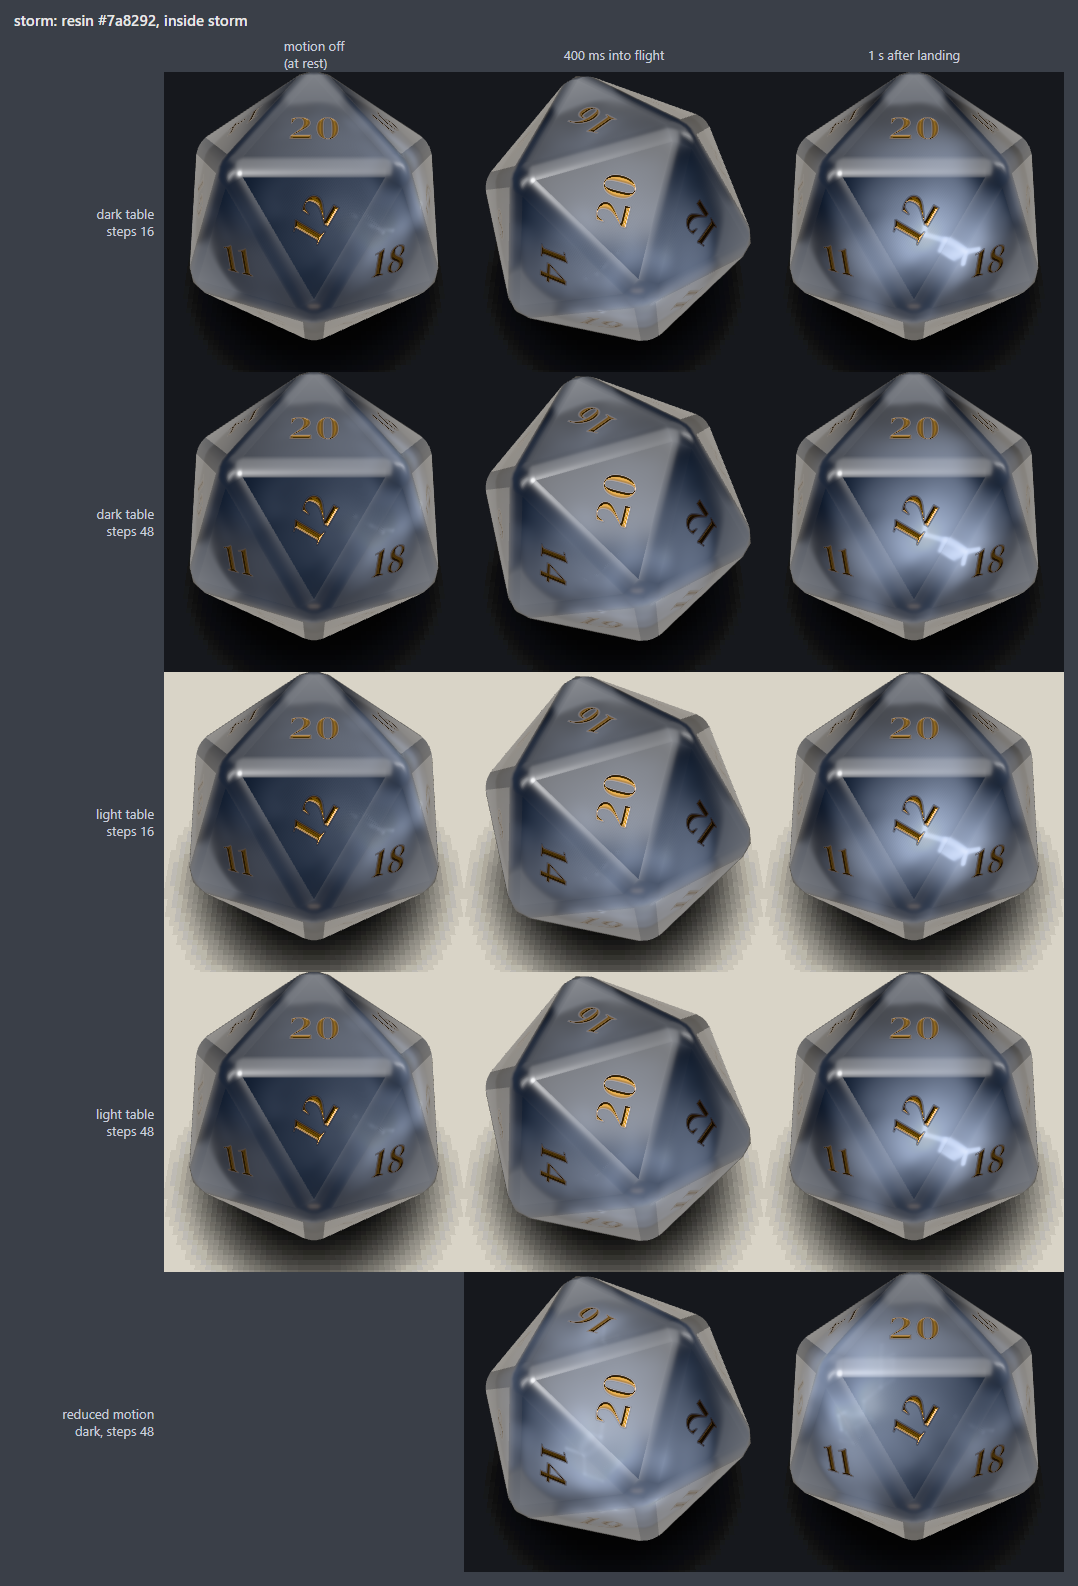
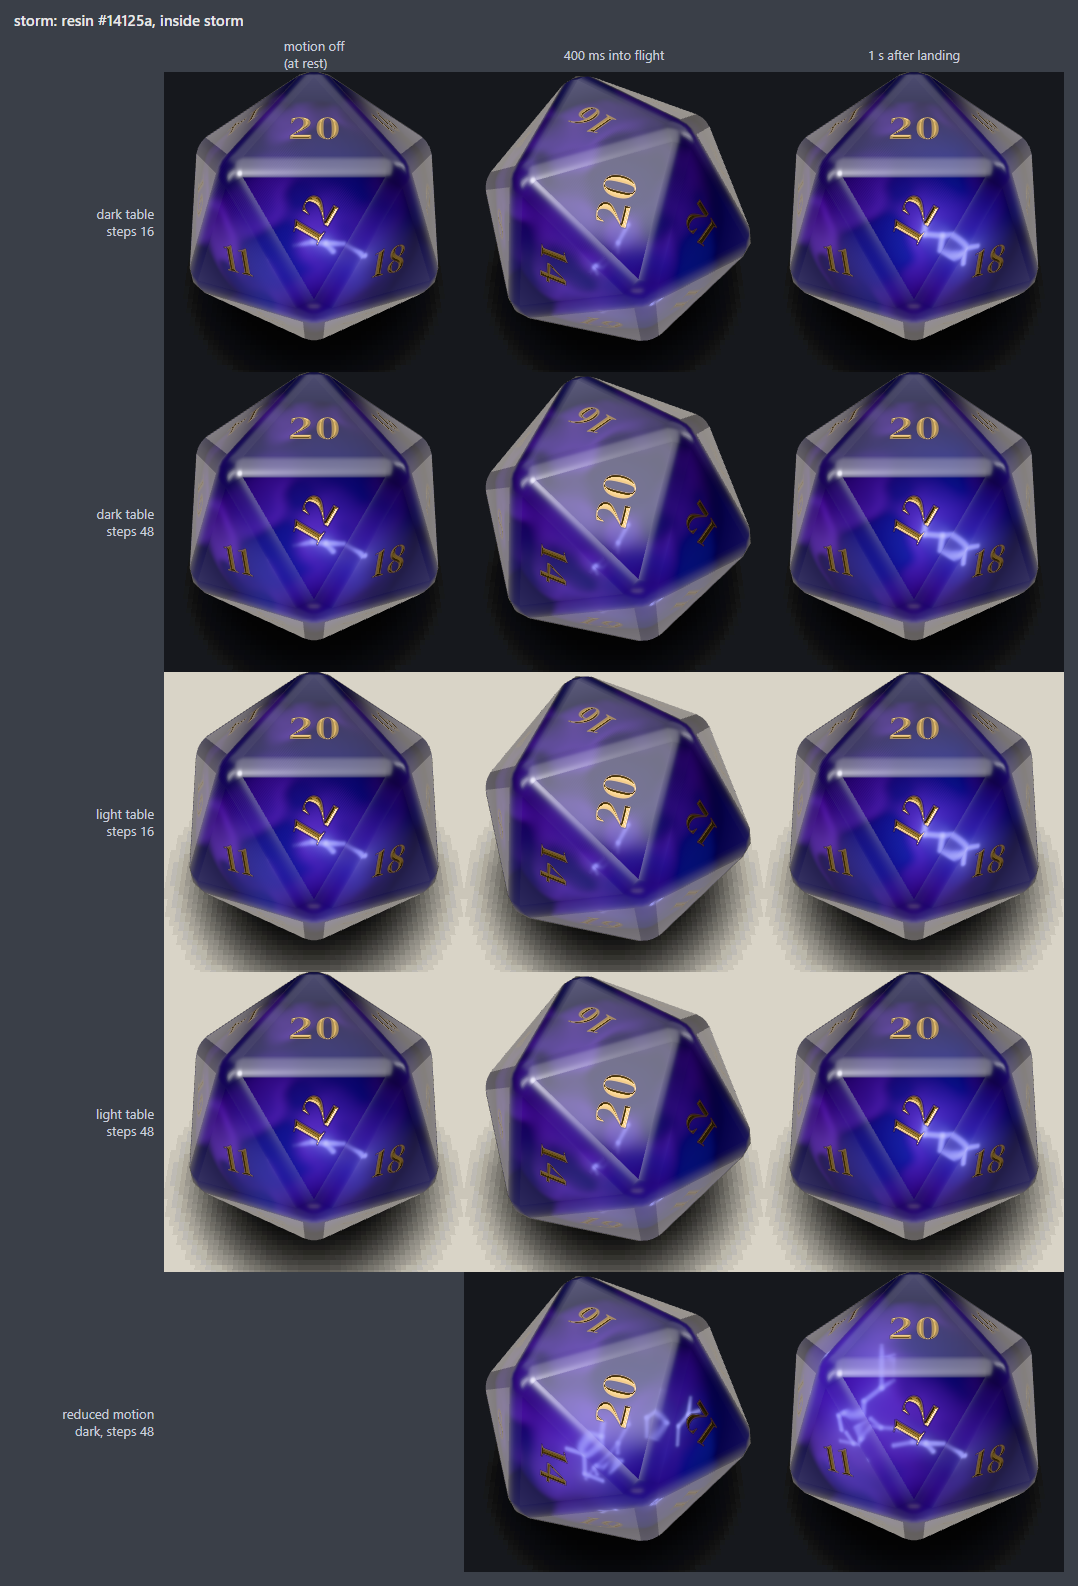
fix(insides): storm sparks legible held and still, frost early out
Storm: the calm bolts keep three-quarter brightness (only their light on
the cloud is halved); a strike clears the cloud round its spot and along
the ray in front of it, so bolts show through from any side; slot 0 has
a fixed spot and heading; white-hot cores tinted colors[0]; the cloud is
darker with lit rims and shadowed cores. The sheet uses the electricity
damage theme's resin and colours. Frost returns only the claimed spike
hits past the haze's edge, before any noise.

diff --git a/src/render/extras/insides/storm.js b/src/render/extras/insides/storm.js
@@ -2,12 +2,17 @@
  * Storm inside: a dark thundercloud with short forked sparks flashing at random spots.
  *
  * Shape (canonical interior frame; the cloud turns with the die like nebula):
- * - the cloud: billows from two noise lookups, denser towards the middle, lit a little from the
- *   key light's side, in colors[1] (keep it dark);
+ * - the cloud: billows from two noise lookups with gaps between them, denser towards the middle;
+ *   their thin rims catch the key light, their dense cores sit in shadow; colors[1] is only tinted
+ *   in, so the cloud stays dark whatever its colour;
  * - the sparks: time is cut into slots of STORM.period seconds, one spark per slot at a spot and
  *   heading hashed from the slot index: a short jagged bolt (three segments) with a fork. Each
  *   flashes for STORM.flash seconds (with a flicker, a second stroke) and then fades fast, so one
- *   strikes about every 0.4 s. The flash also lights the cloud round the spot, in colors[0].
+ *   strikes about every 0.4 s. The flash also lights the cloud round the spot, in colors[0], and
+ *   clears it round the spot and along the ray in front of it (a window from the eye to the spark,
+ *   the same for every sample of a ray), so a bolt shows through the cloud from any side. Slot 0
+ *   (the still frame) has a fixed spot and heading part way out. The bolt's core is white-hot,
+ *   tinted colors[0], so it reads on a body of its own colour.
  *
  * Sparks are thin lines: a march sample cannot hit them (they would stipple). Each segment of a
  * bolt is tested against the whole ray instead: the closest approach of the ray to the segment
@@ -18,8 +23,9 @@
  *
  * Motion: DC_ST_T is uInteriorTime with insideMotion, the constant 0 without (a still frame: the
  * first slot's spark at full flash, no uniform read). Under prefers-reduced-motion the patch
- * carries DICER_CALM (index.js): the first three slots' sparks held at half brightness, nothing
- * strobes (the cloud still drifts at the reduced time). Storm does not read uInteriorFlare (Task 9's agitation).
+ * carries DICER_CALM (index.js): the first three slots' sparks held steady, nothing strobes: their
+ * light on the cloud at half a flash, the bolts at three quarters so they still read as sparks (the
+ * cloud still drifts at the reduced time). Storm does not read uInteriorFlare (Task 9's agitation).
  *
  * Cost: an early out outside the volume, two noise lookups per sample; the bolt (four
  * ray / segment tests) only while a spark is lit (three bolts under DICER_CALM).
@@ -60,67 +66,90 @@ float dcStGlow( vec2 ds, float lim, float sig ) {
 	if ( ds.y < 0.0 || ds.y >= lim ) return 0.0;
 	return ( exp( - ds.x * ds.x * 4000.0 ) + 0.16 * exp( - ds.x * 26.0 ) ) * exp( - sig * ds.y );
 }
-// the bolt of slot k: ( its glow on this march segment, the distance from p to its spot )
-vec2 dcStBolt( vec3 p, vec3 rd, float k, float lim, float sig ) {
+// the spot slot k strikes at; slot 0 (the still frame, a calm spark) at a fixed spot part way out,
+// never deep in the cloud
+vec3 dcStSpot( float k ) {
 	vec3 h = vec3( dcHash13( vec3( k, 1.3, 7.1 ) ), dcHash13( vec3( k, 5.9, 2.4 ) ), dcHash13( vec3( k, 8.2, 3.7 ) ) );
+	return k == 0.0 ? vec3( - 0.2, 0.18, 0.0 ) : ( h - 0.5 ) * 0.5;
+}
+// how much of the cloud a strike at c clears along this ray: a window from the eye to the spark
+// (the ray passes close to c, in front of it), so a spark shows through the cloud from any side.
+// It depends only on the ray and c, the same at every sample (no stipple at its edge)
+float dcStWin( vec3 p, vec3 rd, vec3 c ) {
+	vec3 w = c - p;
+	float along = dot( w, rd );
+	vec3 off = w - rd * along;
+	return exp( - dot( off, off ) * 60.0 ) * smoothstep( - 0.08, 0.06, along );
+}
+// the glow on this march segment of slot k's bolt, struck at c
+float dcStBolt( vec3 p, vec3 rd, float k, vec3 c, float lim, float sig ) {
 	vec3 g = vec3( dcHash13( vec3( k, 4.4, 9.6 ) ), dcHash13( vec3( k, 2.2, 6.8 ) ), dcHash13( vec3( k, 7.7, 0.9 ) ) );
-	// slot 0 (the still frame) strikes part way out, never deep in the middle
-	vec3 c = k == 0.0 ? normalize( h - 0.5 ) * 0.2 : ( h - 0.5 ) * 0.5;
-	vec3 dir = normalize( g - 0.5 + vec3( 0.0, 0.002, 0.0 ) );
+	// slot 0's bolt: a fixed heading across the yz plane
+	vec3 dir = k == 0.0 ? vec3( 0.11, 0.45, - 0.886 ) : normalize( g - 0.5 + vec3( 0.0, 0.002, 0.0 ) );
 	vec3 sd = normalize( cross( dir, abs( dir.y ) < 0.9 ? vec3( 0.0, 1.0, 0.0 ) : vec3( 1.0, 0.0, 0.0 ) ) );
 	vec3 sd2 = cross( dir, sd );
 	// the jagged bolt: two kinks off the line, and a fork from the second
 	vec3 b0 = c - dir * ( DC_ST_LEN * 0.5 );
 	vec3 b1 = c - dir * ( DC_ST_LEN * 0.15 ) + sd * 0.05 + sd2 * ( 0.06 * ( g.x - 0.5 ) );
-	vec3 b2 = c + dir * ( DC_ST_LEN * 0.18 ) - sd * 0.045 + sd2 * ( 0.06 * ( h.x - 0.5 ) );
+	vec3 b2 = c + dir * ( DC_ST_LEN * 0.18 ) - sd * 0.045 + sd2 * ( 0.06 * ( g.y - 0.5 ) );
 	vec3 b3 = c + dir * ( DC_ST_LEN * 0.5 ) + sd * 0.015;
 	vec3 fk = b2 + normalize( dir * 0.7 - sd * 0.9 + sd2 * ( g.z - 0.5 ) ) * ( DC_ST_LEN * 0.32 );
-	float gl = dcStGlow( dcStSeg( p, rd, b0, b1 ), lim, sig ) + dcStGlow( dcStSeg( p, rd, b1, b2 ), lim, sig )
+	return dcStGlow( dcStSeg( p, rd, b0, b1 ), lim, sig ) + dcStGlow( dcStSeg( p, rd, b1, b2 ), lim, sig )
 		+ dcStGlow( dcStSeg( p, rd, b2, b3 ), lim, sig ) + 0.75 * dcStGlow( dcStSeg( p, rd, b2, fk ), lim, sig );
-	return vec2( gl, length( p - c ) );
 }
 vec4 dcInterior( vec3 p, vec3 rd, float dt ) {
 	float env = dcIEdge( p );
 	if ( env <= 0.0 ) return vec4( 0.0 );
 	float r = length( p );
-	// the cloud: slow billows, denser towards the middle
-	vec3 q = p * 3.0 + vec3( 0.0, DC_ST_T * 0.06, DC_ST_T * 0.04 );
-	float n1 = dcNoise3( q + 2.7 );
-	float n2 = dcNoise3( q * 1.9 - 6.1 );
-	// soft billows: a smooth extinction keeps a spark's dimming the same whatever the jitter
-	float dens = smoothstep( 0.2, 0.85, n1 * 0.7 + n2 * 0.3 + 0.3 * ( 0.3 - r ) );
-	float sig = ( dens * mix( 5.0, 16.0, uInteriorDensity ) + 0.8 ) * env;
-	float a = dcIAlpha( sig, dt );
-	float lit = 0.25 + 0.55 * smoothstep( - 0.35, 0.6, dot( p, dcIKey ) ) * ( 1.0 - 0.5 * dens );
-	vec3 cloud = uInteriorColors[ 1 ] * ( dcILight * lit * 0.4 + 0.04 );
-	// the march's last segment also takes its tail up to the volume exit
-	float ex = dcIVolume( p, rd ).y;
-	float lim = ex - dt < dt ? ex : dt;
-	float gl = 0.0;
-	float near = 0.0;
+	// the lit sparks: e lights the cloud round their spots, eb is the bolts' own brightness
 #ifdef DICER_CALM
-	// reduced motion: the first three sparks held at half brightness, nothing flashes
+	// reduced motion: the first three sparks held steady, nothing flashes: their light on the cloud
+	// at half a flash, the bolts themselves at three quarters so they still read as sparks
 	float e = 0.5;
-	for ( int i = 0; i < 3; i ++ ) {
-		vec2 b = dcStBolt( p, rd, float( i ), lim, sig );
-		gl += b.x;
-		near += exp( - b.y * 5.0 );
-	}
+	float eb = 0.75;
+	vec3 c0 = dcStSpot( 0.0 );
+	vec3 c1 = dcStSpot( 1.0 );
+	vec3 c2 = dcStSpot( 2.0 );
+	vec3 dd = vec3( length( p - c0 ), length( p - c1 ), length( p - c2 ) );
+	float near = dot( exp( - dd * 5.0 ), vec3( 1.0 ) );
+	float hole = dot( exp( - dd * 4.0 ), vec3( 1.0 ) ) + dcStWin( p, rd, c0 ) + dcStWin( p, rd, c1 ) + dcStWin( p, rd, c2 );
 #else
 	// this slot's spark: a flash of DC_ST_FLASH with a flicker (the second stroke), then a fast fade
 	float tt = DC_ST_T / DC_ST_PERIOD;
 	float k = floor( tt );
 	float u = ( tt - k ) * DC_ST_PERIOD;
 	float e = u < DC_ST_FLASH ? 1.0 - 0.55 * step( 0.04, u ) * step( u, 0.07 ) : exp( - ( u - DC_ST_FLASH ) * 22.0 );
-	if ( e > 0.003 ) {
-		vec2 b = dcStBolt( p, rd, k, lim, sig );
-		gl = b.x;
-		near = exp( - b.y * 5.0 );
-	}
+	float eb = e;
+	vec3 c0 = dcStSpot( k );
+	float d0 = length( p - c0 );
+	float near = exp( - d0 * 5.0 );
+	float hole = e > 0.003 ? ( exp( - d0 * 4.0 ) + dcStWin( p, rd, c0 ) ) * min( e * 1.5, 1.0 ) : 0.0;
 #endif
-	vec3 spark = ( uInteriorColors[ 0 ] * 1.3 + 0.3 ) * ( gl * e );
+	// the cloud: slow billows with gaps between them, denser towards the middle; a strike clears
+	// the cloud round it and in front of it, so its bolt shows from every side
+	vec3 q = p * 3.0 + vec3( 0.0, DC_ST_T * 0.06, DC_ST_T * 0.04 );
+	float n1 = dcNoise3( q + 2.7 );
+	float n2 = dcNoise3( q * 1.9 - 6.1 );
+	float dens = smoothstep( 0.25, 0.72, n1 * 0.7 + n2 * 0.3 + 0.25 * ( 0.3 - r ) ) * ( 1.0 - 0.85 * min( hole, 1.0 ) );
+	float sig = ( dens * mix( 8.0, 24.0, uInteriorDensity ) + 1.2 * ( 1.0 - 0.7 * min( hole, 1.0 ) ) ) * env;
+	float a = dcIAlpha( sig, dt );
+	// billow contrast: the thin rims catch the light on the key's side, the dense cores sit in
+	// their own shadow; colors[1] is only tinted in, so the cloud stays dark whatever its colour
+	float rim = 1.0 - smoothstep( 0.1, 0.75, dens );
+	float side = smoothstep( - 0.45, 0.5, dot( p, dcIKey ) );
+	vec3 cloud = uInteriorColors[ 1 ] * ( dcILight * ( 0.015 + 0.45 * rim * side + 0.04 * side ) + 0.008 );
+	// the march's last segment also takes its tail up to the volume exit
+	float ex = dcIVolume( p, rd ).y;
+	float lim = ex - dt < dt ? ex : dt;
+#ifdef DICER_CALM
+	float gl = dcStBolt( p, rd, 0.0, c0, lim, sig ) + dcStBolt( p, rd, 1.0, c1, lim, sig ) + dcStBolt( p, rd, 2.0, c2, lim, sig );
+#else
+	float gl = e > 0.003 ? dcStBolt( p, rd, k, c0, lim, sig ) : 0.0;
+#endif
+	// a white-hot core tinted colors[0], so it reads on a body of its own colour
+	vec3 spark = ( mix( uInteriorColors[ 0 ], vec3( 1.0 ), 0.55 ) * 2.0 ) * ( gl * eb );
 	// the flash lights the cloud round the spot
-	cloud += uInteriorColors[ 0 ] * ( e * 2.6 * near * ( 0.3 + dens ) );
+	cloud += uInteriorColors[ 0 ] * ( e * 2.2 * near * ( 0.3 + dens ) );
 	// the spark is not clamped: which march segment claims each bolt segment depends on the jitter,
 	// so a clamp of their sum (or with the cloud) would dither the bolt
 	return vec4( min( cloud, vec3( 1.0 ) ) * a + spark, a );

diff --git a/src/render/extras/insides/frost.js b/src/render/extras/insides/frost.js
@@ -24,8 +24,8 @@
  * Motion: DC_FR_T is uInteriorTime with insideMotion, the constant 0 without (a still frame, no
  * uniform read): the glint crawls and the haze drifts with time; the spikes hold still.
  *
- * Cost: once per pixel, FROST.spikes ray / segment tests (three hashes each); per sample one
- * noise lookup and an exit test.
+ * Cost: once per pixel, FROST.spikes ray / segment tests (three hashes each); per sample an exit
+ * test, then an early out past the haze's edge (only the spike hits), else one noise lookup.
  */
 export const USES_NOISE = true; // dcNoise3, dcHash13
 
@@ -113,6 +113,17 @@ void dcFrRay( vec3 o, vec3 rd ) {
 		}
 	}
 }
+// the hits the march segment from p (sp along the ray, lim long) holds, each dimmed by the haze
+// (extinction haze) between the segment's start and the hit, so it does not depend on where the
+// jitter put the segment's start
+vec4 dcFrHits( float sp, float lim, float haze ) {
+	vec4 acc = vec4( 0.0 );
+	float s1 = dcFrS1 - sp;
+	if ( s1 >= 0.0 && s1 < lim ) acc = dcFrC1 * exp( - haze * s1 );
+	float s2 = dcFrS2 - sp;
+	if ( s2 >= 0.0 && s2 < lim ) acc += ( 1.0 - acc.a ) * dcFrC2 * exp( - haze * s2 );
+	return acc;
+}
 vec4 dcInterior( vec3 p, vec3 rd, float dt ) {
 	if ( ! dcFrInit ) {
 		dcFrInit = true;
@@ -123,18 +134,15 @@ vec4 dcInterior( vec3 p, vec3 rd, float dt ) {
 	float sp = dot( p - dcFrO, rd );
 	float ex = dcIVolume( p, rd ).y;
 	float lim = ex - dt < dt ? ex : dt;
+	// the early out: past the haze's edge only the spike hits (roots sit at the wall), no noise
+	float env = dcIEdge( p );
+	if ( env <= 0.0 ) return dcFrHits( sp, lim, 0.0 );
 	// the cold haze: thicker towards the wall where the frost grows, drifting slowly
 	float r = length( p );
 	float n = dcNoise3( p * 3.4 + vec3( DC_FR_T * 0.05, DC_FR_T * 0.02, 0.0 ) + 1.3 );
-	float haze = ( 0.25 + 1.6 * smoothstep( DC_FR_IN - 0.1, DC_FR_WALL, r ) ) * ( 0.4 + n ) * mix( 0.6, 1.4, uInteriorDensity ) * dcIEdge( p );
+	float haze = ( 0.25 + 1.6 * smoothstep( DC_FR_IN - 0.1, DC_FR_WALL, r ) ) * ( 0.4 + n ) * mix( 0.6, 1.4, uInteriorDensity ) * env;
 	float a = dcIAlpha( haze, dt );
-	// a hit is dimmed by the haze between the segment's start and the hit, so it does not depend
-	// on where the jitter put the segment's start
-	vec4 acc = vec4( 0.0 );
-	float s1 = dcFrS1 - sp;
-	if ( s1 >= 0.0 && s1 < lim ) acc = dcFrC1 * exp( - haze * s1 );
-	float s2 = dcFrS2 - sp;
-	if ( s2 >= 0.0 && s2 < lim ) acc += ( 1.0 - acc.a ) * dcFrC2 * exp( - haze * s2 );
+	vec4 acc = dcFrHits( sp, lim, haze );
 	vec3 hc = uInteriorColors[ 1 ] * ( dcILight * 0.55 + 0.2 );
 	return acc + ( 1.0 - acc.a ) * vec4( min( hc, vec3( 1.0 ) ) * a, a );
 }

diff --git a/tests/unit/look-extras.test.js b/tests/unit/look-extras.test.js
@@ -1347,6 +1347,17 @@ describe('insides', () => {
       expect(body).toContain(`#define DC_FR_N ${FROST.spikes}`);
     });
 
+    test('frost has an early out after the spike claims: no haze noise outside the volume', () => {
+      const body = frostInside(resin({ type: 'frost' })).body;
+      const main = body.slice(body.indexOf('vec4 dcInterior( vec3 p, vec3 rd, float dt )'));
+      const init = main.indexOf('dcFrRay( p, rd );');
+      const out = main.indexOf('if ( env <= 0.0 ) return dcFrHits( sp, lim, 0.0 );');
+      expect(init).toBeGreaterThan(0);
+      // after the per-ray spike test (so root hits at the wall still count), before any noise
+      expect(out).toBeGreaterThan(init);
+      expect(main.indexOf('dcNoise3')).toBeGreaterThan(out);
+    });
+
     test('reduced motion define makes storm sparks steady', () => {
       const a = resin({ type: 'storm', density: 0.5 });
       // no reduced motion: no define
@@ -1365,9 +1376,15 @@ describe('insides', () => {
       expect(mat(a, LIVE).defines).not.toHaveProperty('DICER_CALM');
       // under DICER_CALM: fixed sparks (the first slots) held at half brightness, never reading time
       const body = stormInside(a, true).body;
-      const calm = body.split('#ifdef DICER_CALM')[1].split('#else')[0];
+      const calm = body
+        .split('#ifdef DICER_CALM')
+        .slice(1)
+        .map((x) => x.split('#else')[0])
+        .join('\n');
       expect(calm).toMatch(/float e = 0\.5;/);
-      expect(calm).toMatch(/dcStBolt\( p, rd, float\( i \), lim, sig \)/);
+      // the held bolts themselves stay clearly visible (only the flash's light on the cloud is halved)
+      expect(calm).toMatch(/float eb = 0\.75;/);
+      for (const i of ['0.0', '1.0', '2.0']) expect(calm).toContain(`dcStBolt( p, rd, ${i}, c${i[0]}, lim, sig )`);
       expect(calm).not.toMatch(/DC_ST_T|uInteriorTime/);
       const fs = activeGlsl(patched(withReducedMotion(() => mat(a, LIVE))).fragmentShader, { DICER_CALM: '' });
       expect(fs).toContain('float e = 0.5;');

diff --git a/dev/insides.js b/dev/insides.js
@@ -45,7 +45,8 @@ export const INSIDES = {
   dragon: () => withBody(CLEAR, { type: 'shape', shape: 'dragon', colors: ['#8a1c1c', '#d9603a'], density: 0.5 }),
   fire: () => withBody({ ...CLEAR, color: '#3a3438', color2: '#1a1618' }, { type: 'fire', colors: ['#ffd36a', '#d8401a'], density: 0.6 }),
   lava: () => withBody({ ...CLEAR, color: '#3a3438', color2: '#1a1618' }, { type: 'lava', colors: ['#ffb030', '#c0300c'], density: 0.55 }),
-  storm: () => withBody({ ...CLEAR, color: '#7a8292', color2: '#424a58' }, { type: 'storm', colors: ['#cfe0ff', '#262a36'], density: 0.6 }),
+  // the electricity damage theme's resin and colours (damage-themes.js), where Task 8 puts storm
+  storm: () => withBody({ ...CLEAR, color: '#14125a', color2: '#05052a', roughness: 0.04 }, { type: 'storm', colors: ['#4d6bff', '#b066ff'], density: 0.7 }),
   frost: () => withBody({ ...CLEAR, color: '#e4f0f6', color2: '#b0c8d8' }, { type: 'frost', colors: ['#e6f6ff', '#7fa6c4'], density: 0.55 }),
 };
 
